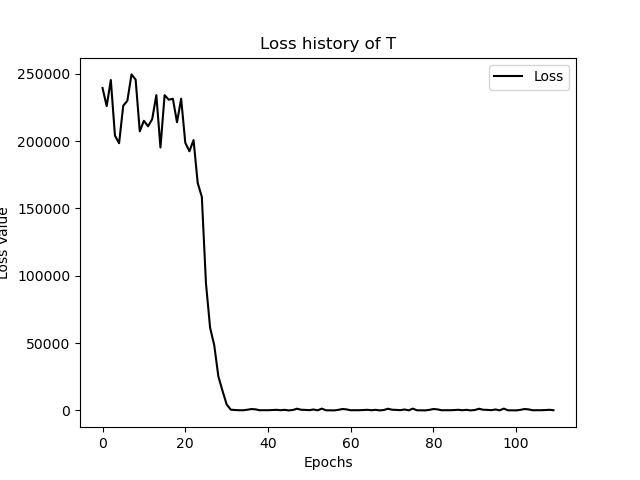
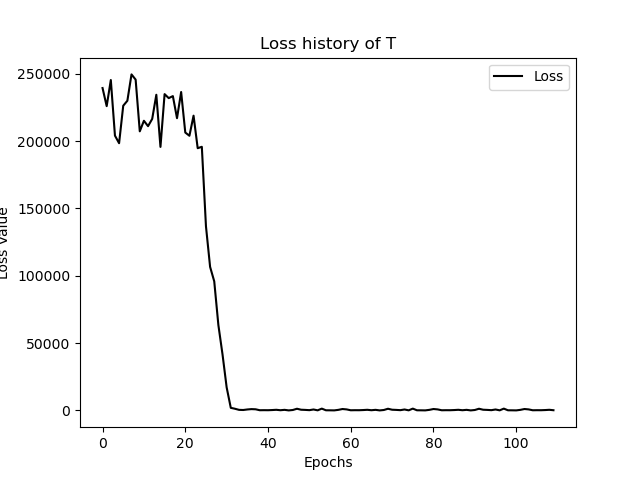
increase layers in FNN_P.py and the loss is finally decreased

Changed region(s): [[0.25, 0.1875, 0.375, 0.875]]

diff --git a/FNN/FNN_P.py b/FNN/FNN_P.py
@@ -135,7 +135,27 @@ class Regression(nn.Module):
       nn.LeakyReLU(0.02),
       nn.LayerNorm(100),
 
-      nn.Linear(100,100),
+      nn.Linear(100,50),
+      nn.LeakyReLU(0.02),
+      nn.LayerNorm(50),
+
+      nn.Linear(50,25),
+      nn.LeakyReLU(0.02),
+      nn.LayerNorm(25),
+
+      nn.Linear(25,10),
+      nn.LeakyReLU(0.02),
+      nn.LayerNorm(10),
+
+      nn.Linear(10,25),
+      nn.LeakyReLU(0.02),
+      nn.LayerNorm(25),
+
+      nn.Linear(25,50),
+      nn.LeakyReLU(0.02),
+      nn.LayerNorm(50),
+
+      nn.Linear(50,100),
       nn.LeakyReLU(0.02),
       nn.LayerNorm(100),
 
@@ -148,7 +168,7 @@ class Regression(nn.Module):
 
     # 回归问题，需要使用 MSE
     self.loss_function = nn.MSELoss()
-    self.optimiser = torch.optim.SGD(self.parameters(),lr=0.0025)
+    self.optimiser = torch.optim.SGD(self.parameters(),lr=0.0001)
 
     # counter 用来记录训练的次数
     self.counter = 0
@@ -406,7 +426,7 @@ class Regression(nn.Module):
 R = Regression()
 
 # train the model
-epochs = 15
+epochs = 50
 
 for i in range(epochs):
   print("Training Epoch", i+1, "of", epochs)
